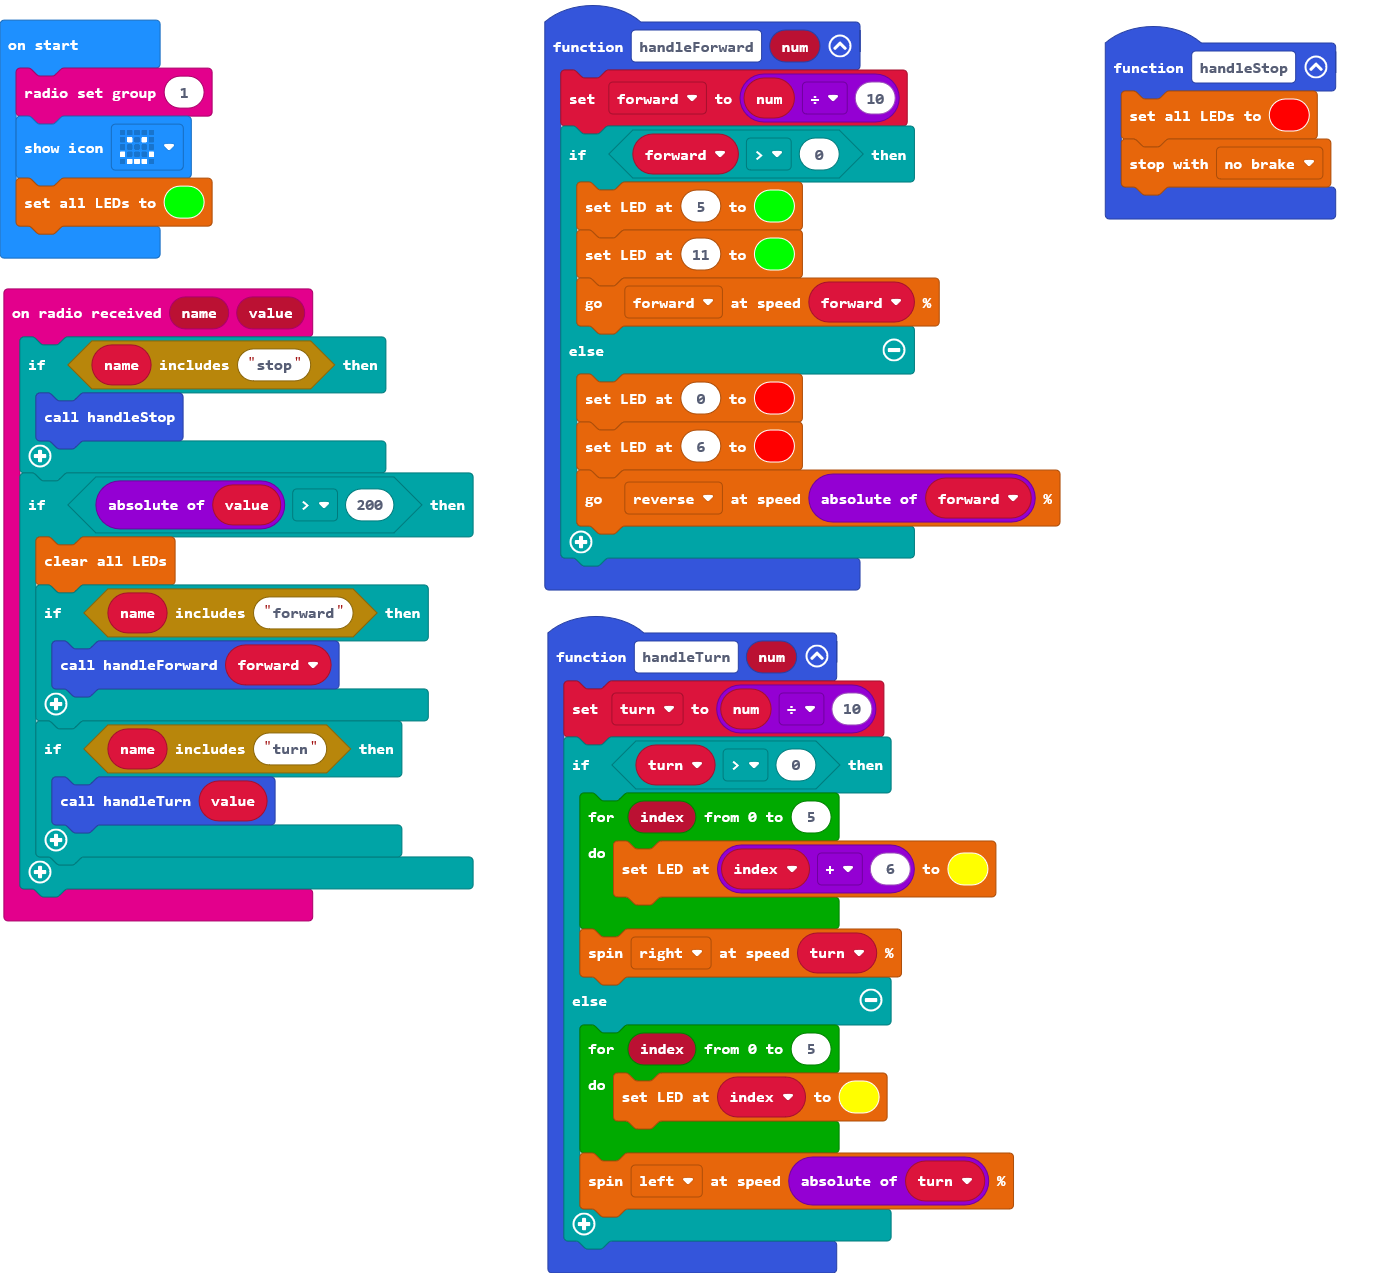
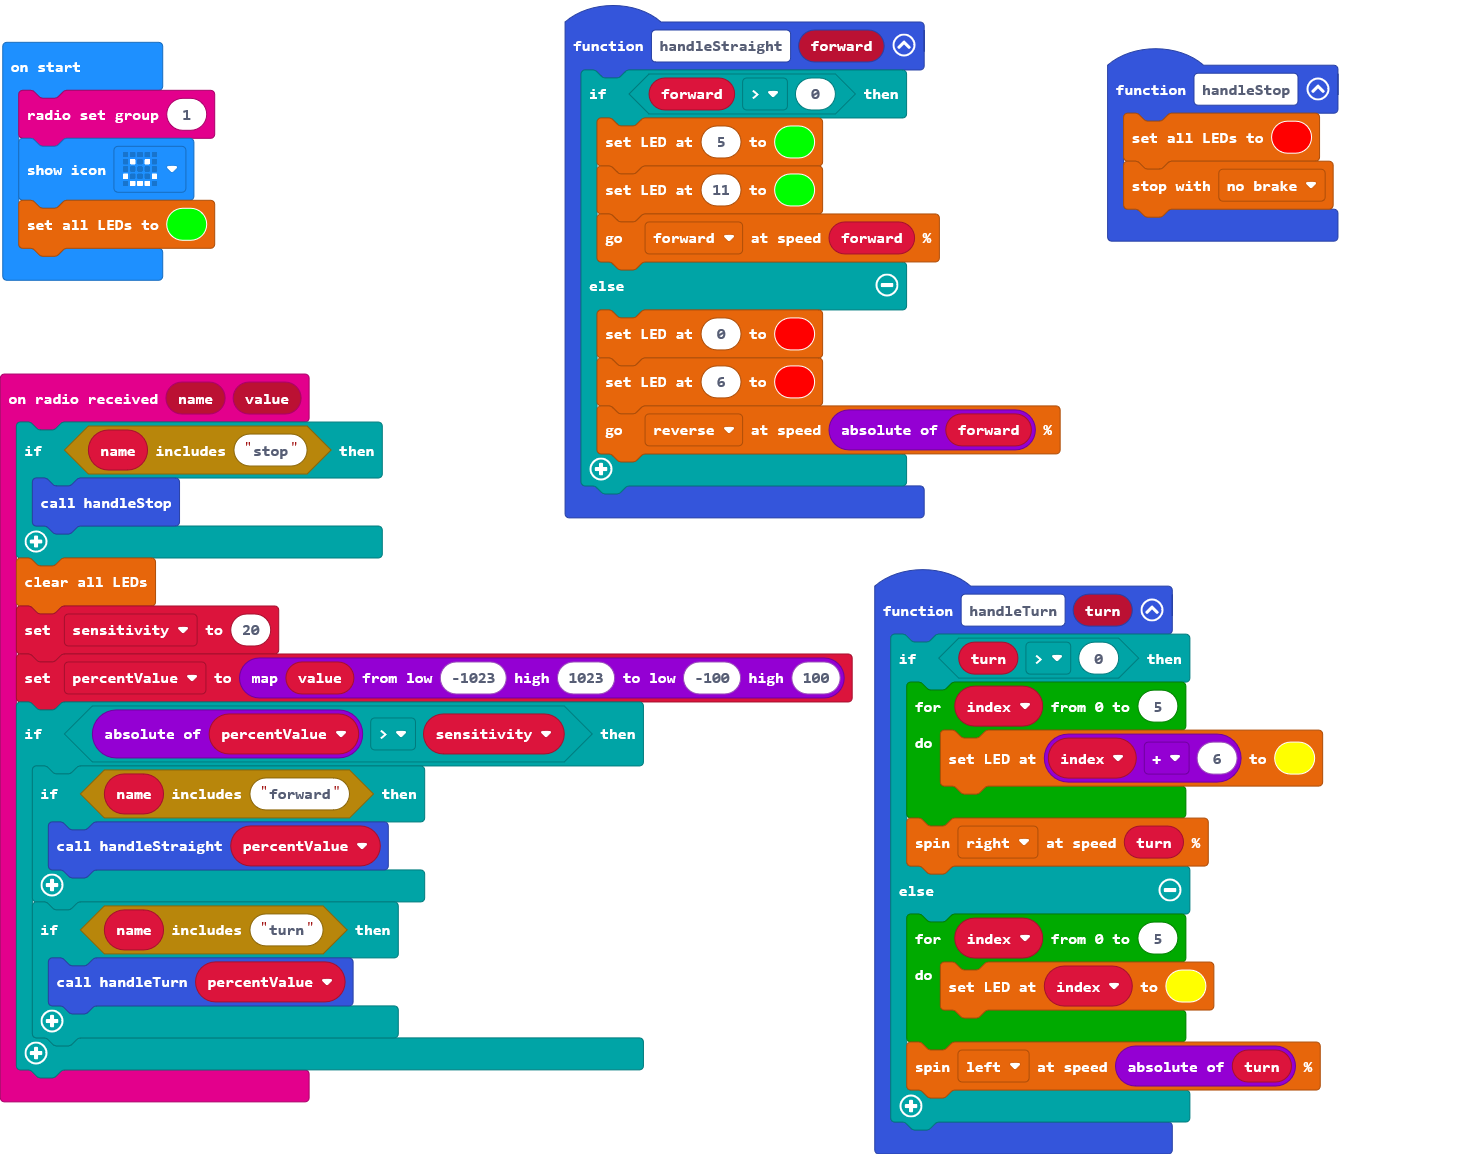
Update main.blocks, main.ts

diff --git a/main.ts b/main.ts
@@ -2,20 +2,7 @@ function handleStop () {
     bitbot.setLedColor(0xFF0000)
     bitbot.stop(BBStopMode.Coast)
 }
-function handleForward (num: number) {
-    forward = num / 10
-    if (forward > 0) {
-        bitbot.setPixelColor(5, 0x00FF00)
-        bitbot.setPixelColor(11, 0x00FF00)
-        bitbot.go(BBDirection.Forward, forward)
-    } else {
-        bitbot.setPixelColor(0, 0xFF0000)
-        bitbot.setPixelColor(6, 0xFF0000)
-        bitbot.go(BBDirection.Reverse, Math.abs(forward))
-    }
-}
-function handleTurn (num: number) {
-    turn = num / 10
+function handleTurn (turn: number) {
     if (turn > 0) {
         for (let index = 0; index <= 5; index++) {
             bitbot.setPixelColor(index + 6, 0xFFFF00)
@@ -32,18 +19,31 @@ radio.onReceivedValue(function (name, value) {
     if (name.includes("stop")) {
         handleStop()
     }
-    if (Math.abs(value) > 200) {
-        bitbot.ledClear()
+    bitbot.ledClear()
+    sensitivity = 20
+    percentValue = Math.map(value, -1023, 1023, -100, 100)
+    if (Math.abs(percentValue) > sensitivity) {
         if (name.includes("forward")) {
-            handleForward(forward)
+            handleStraight(percentValue)
         }
         if (name.includes("turn")) {
-            handleTurn(value)
+            handleTurn(percentValue)
         }
     }
 })
-let turn = 0
-let forward = 0
+function handleStraight (forward: number) {
+    if (forward > 0) {
+        bitbot.setPixelColor(5, 0x00FF00)
+        bitbot.setPixelColor(11, 0x00FF00)
+        bitbot.go(BBDirection.Forward, forward)
+    } else {
+        bitbot.setPixelColor(0, 0xFF0000)
+        bitbot.setPixelColor(6, 0xFF0000)
+        bitbot.go(BBDirection.Reverse, Math.abs(forward))
+    }
+}
+let percentValue = 0
+let sensitivity = 0
 radio.setGroup(1)
 basic.showIcon(IconNames.Happy)
 bitbot.setLedColor(0x00FF00)
